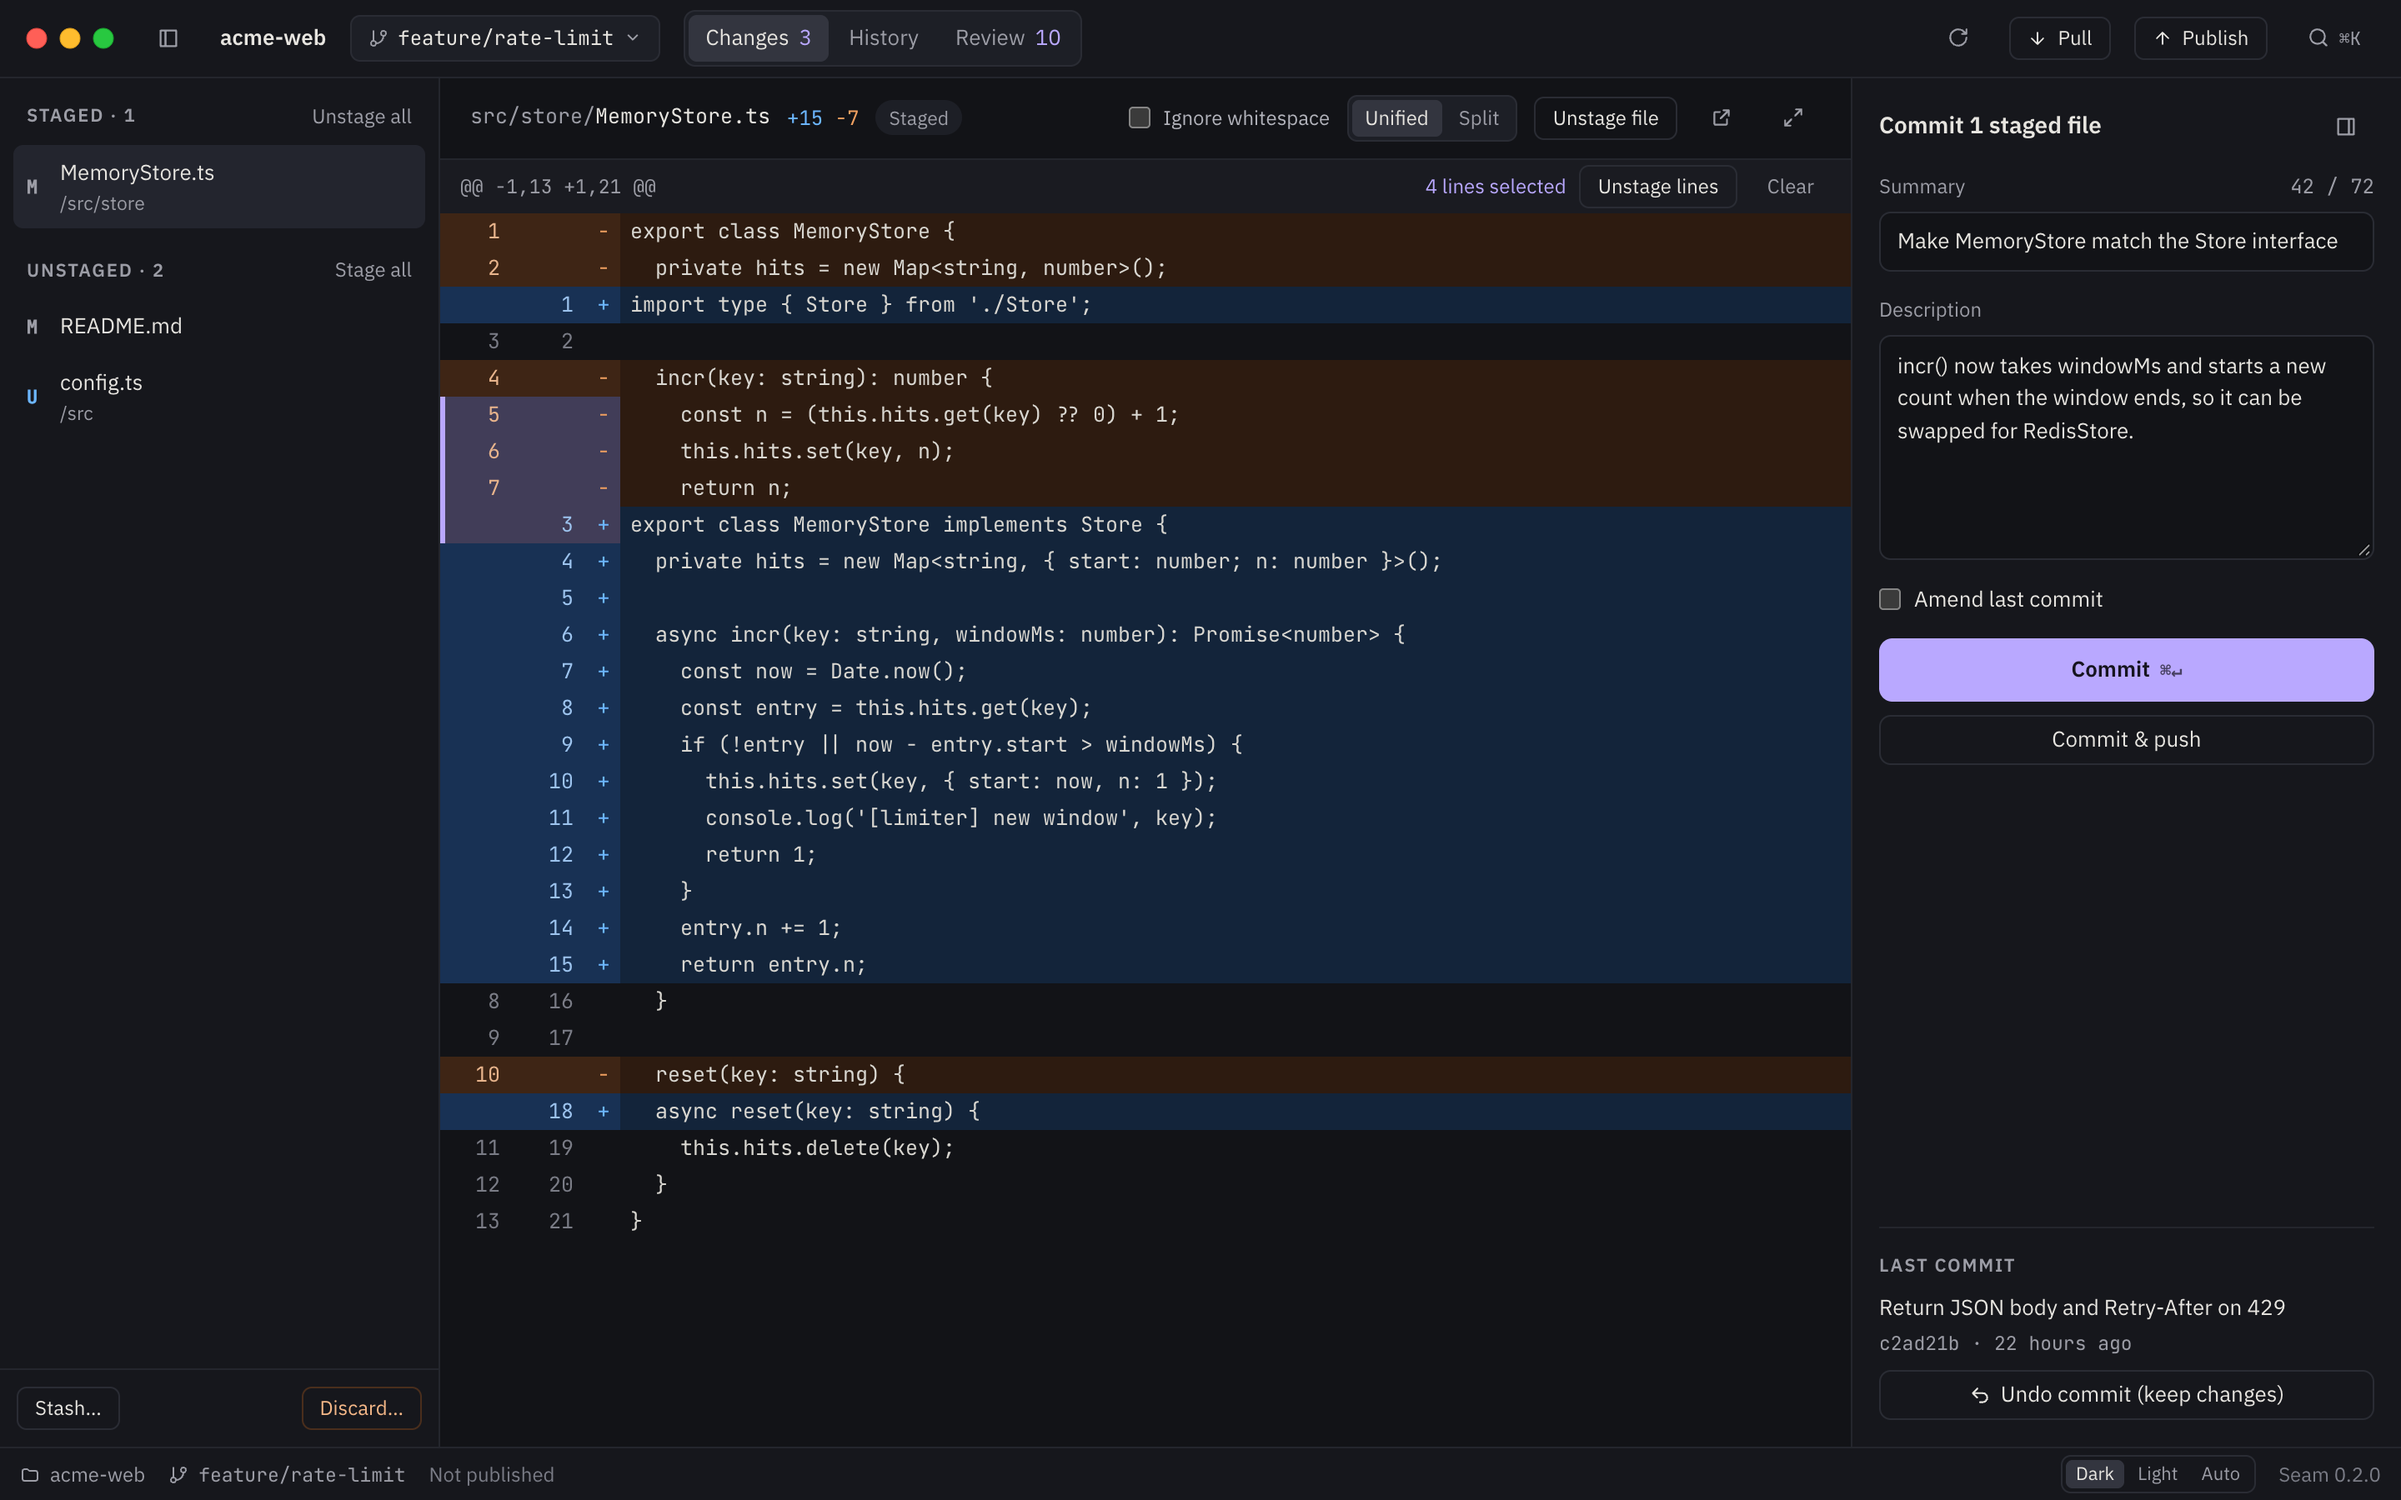
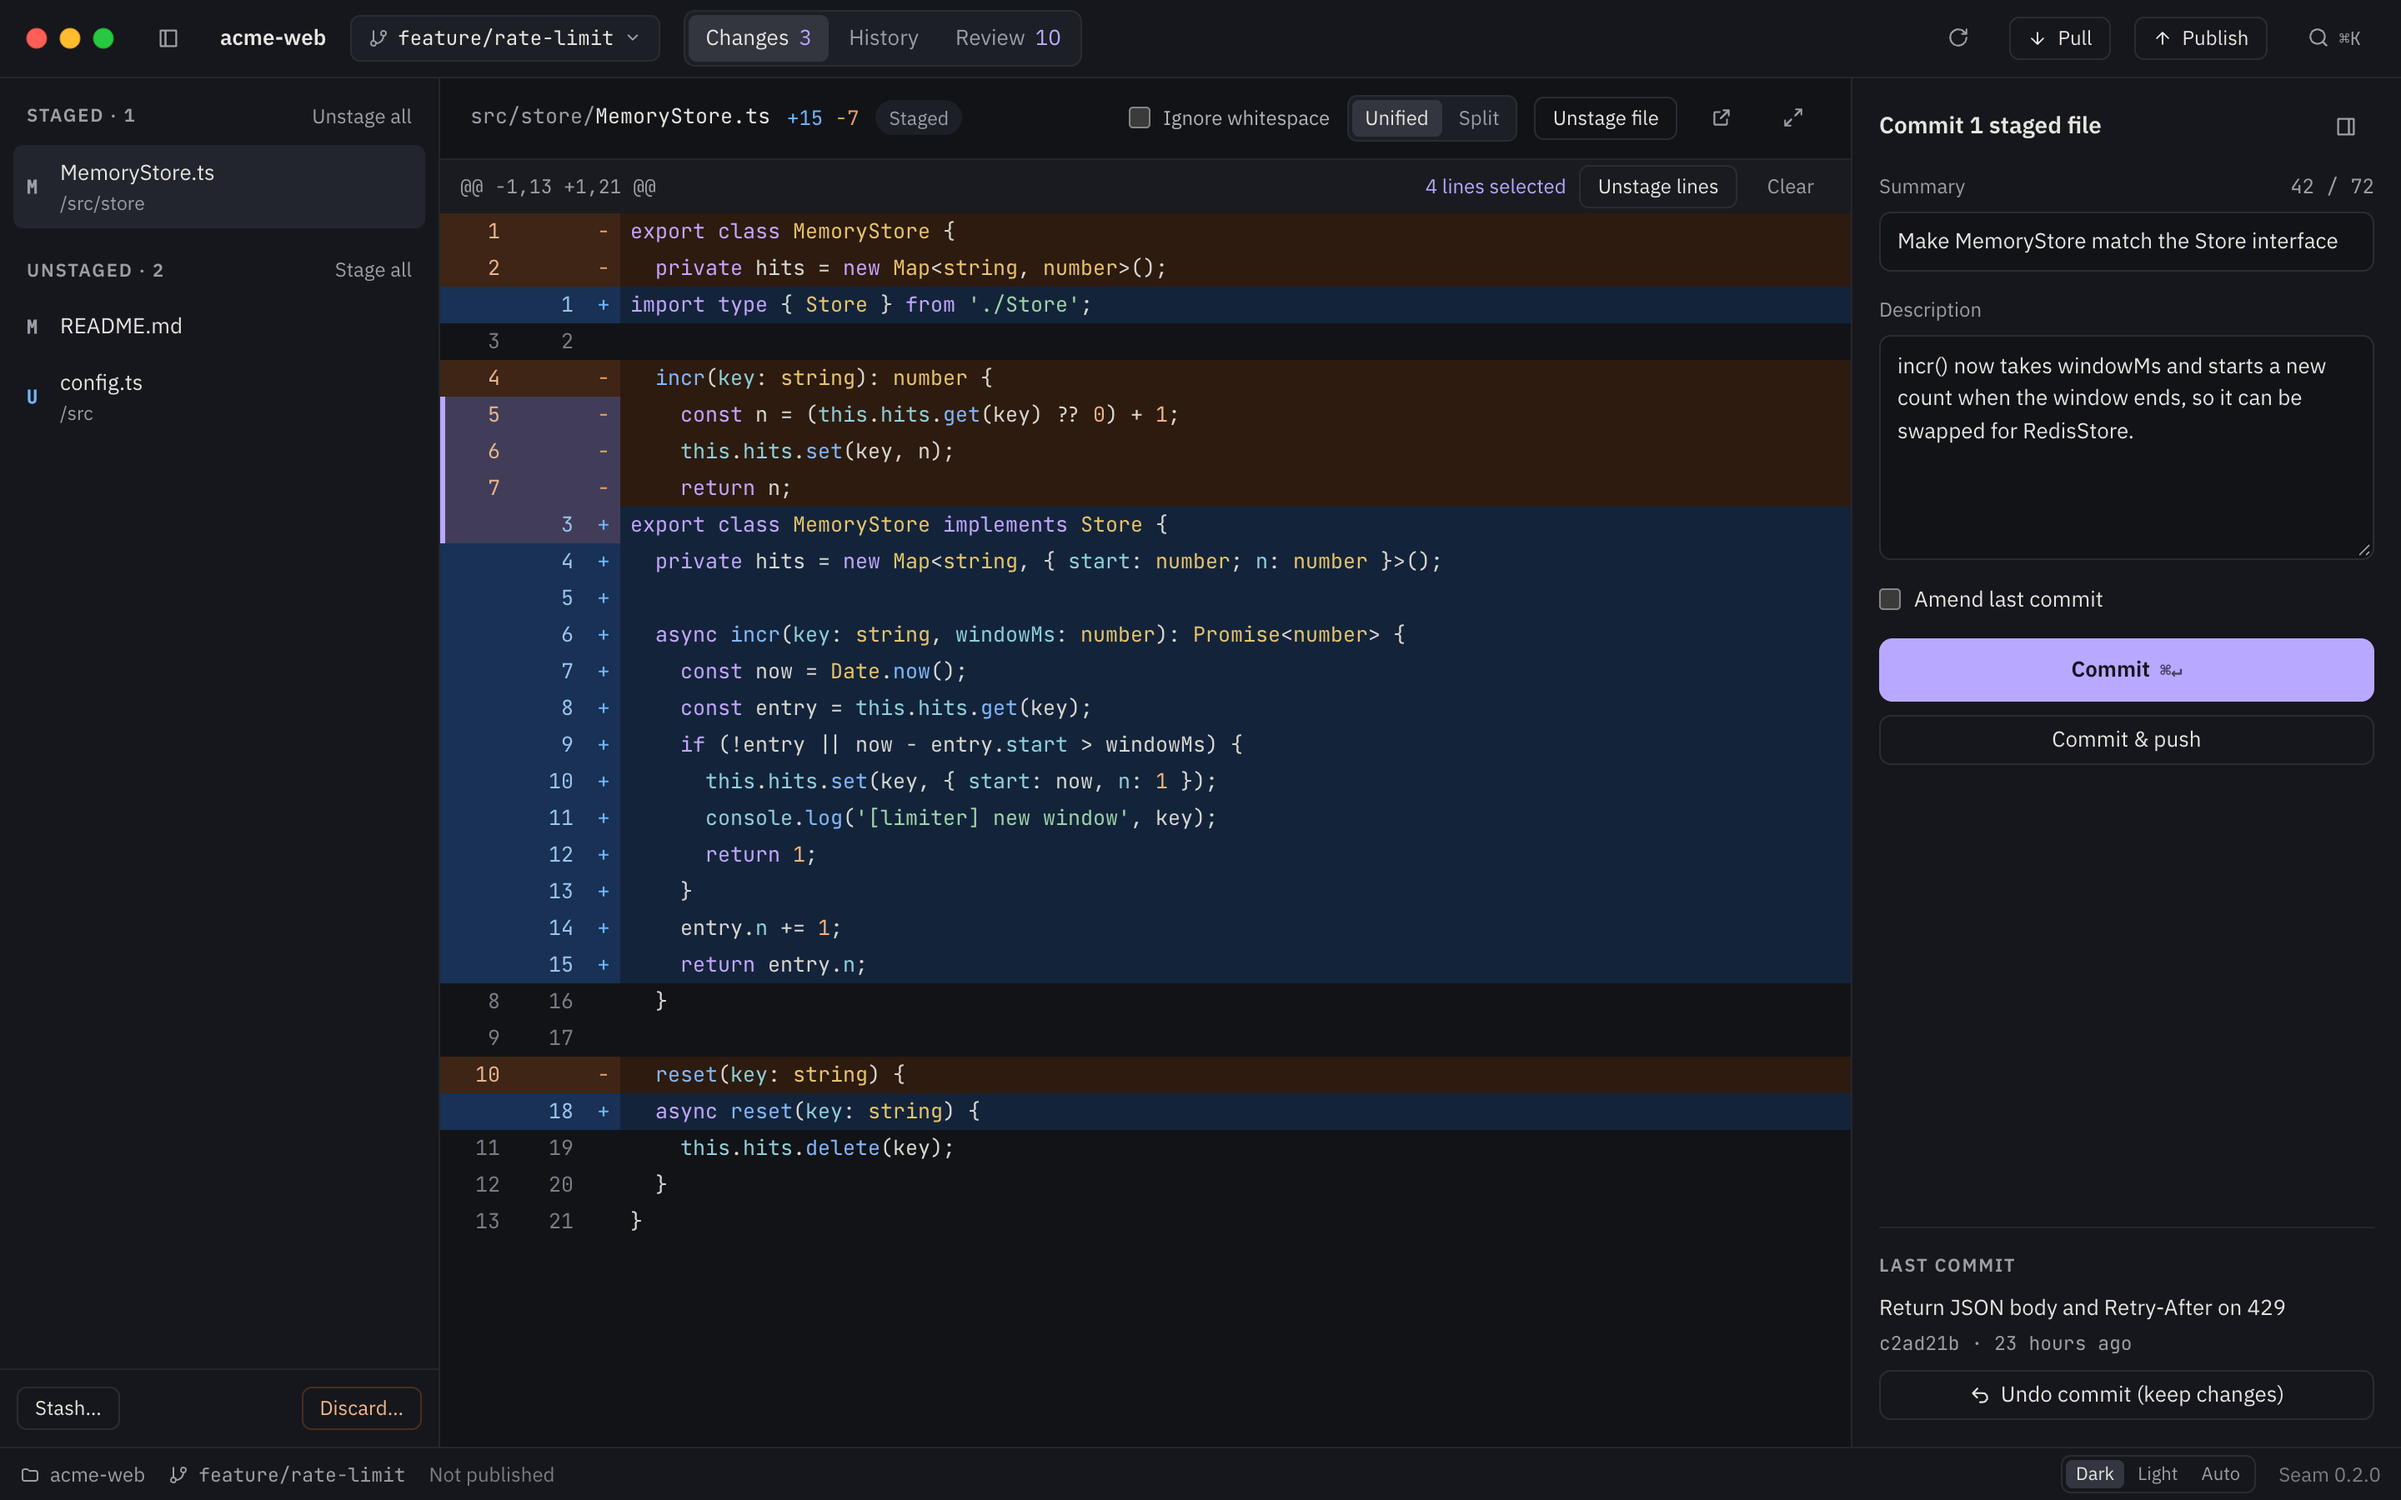
docs: retake screenshots with syntax highlighting

diff --git a/README.md b/README.md
@@ -7,7 +7,8 @@ lines, commit, stash, rename or remove commits, and undo any of it with ⌘Z.
 
 [Website](https://kevenleone.github.io/seam/) · [Download](https://github.com/kevenleone/seam/releases/latest)
 
-- **Changes**: stage, unstage or discard single lines and hunks; commit or amend.
+- **Changes**: stage, unstage or discard single lines and hunks; commit or amend. Diffs are
+  syntax highlighted for the common languages, in every theme.
 - **History**: ⌘/⇧-click commits to squash, remove, cherry-pick or see their combined diff;
   rename, revert or reset any commit; branches, stashes and tags.
 - **Review**: an AI review of the branch with comments on the lines they refer to, by the
